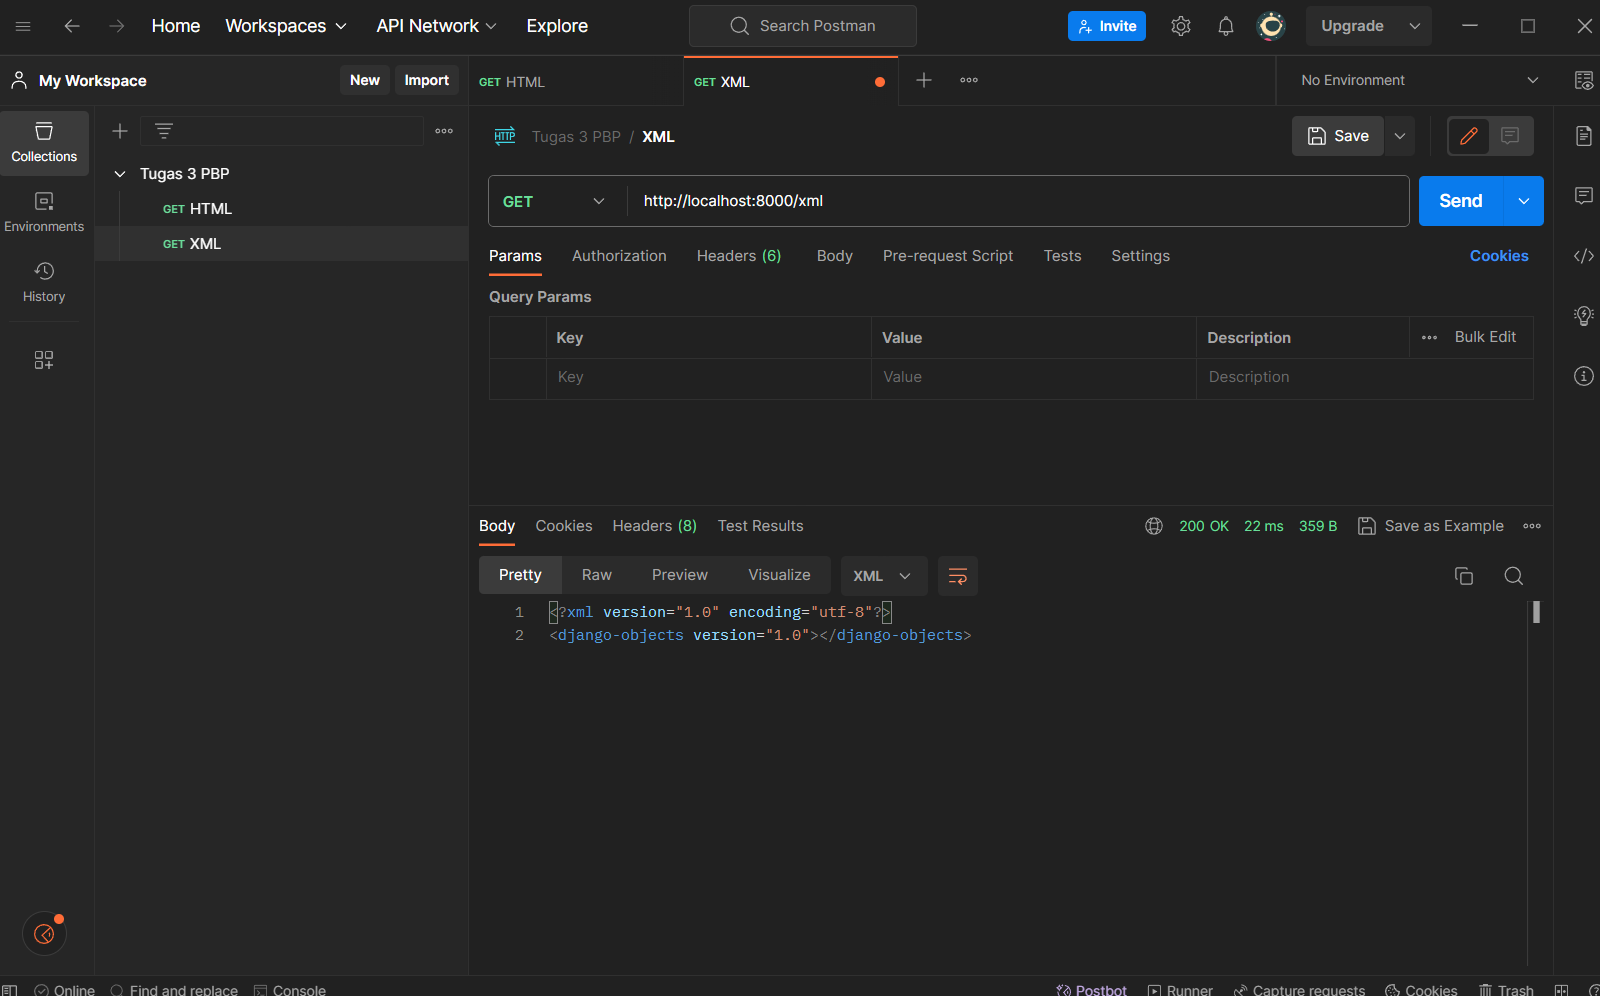
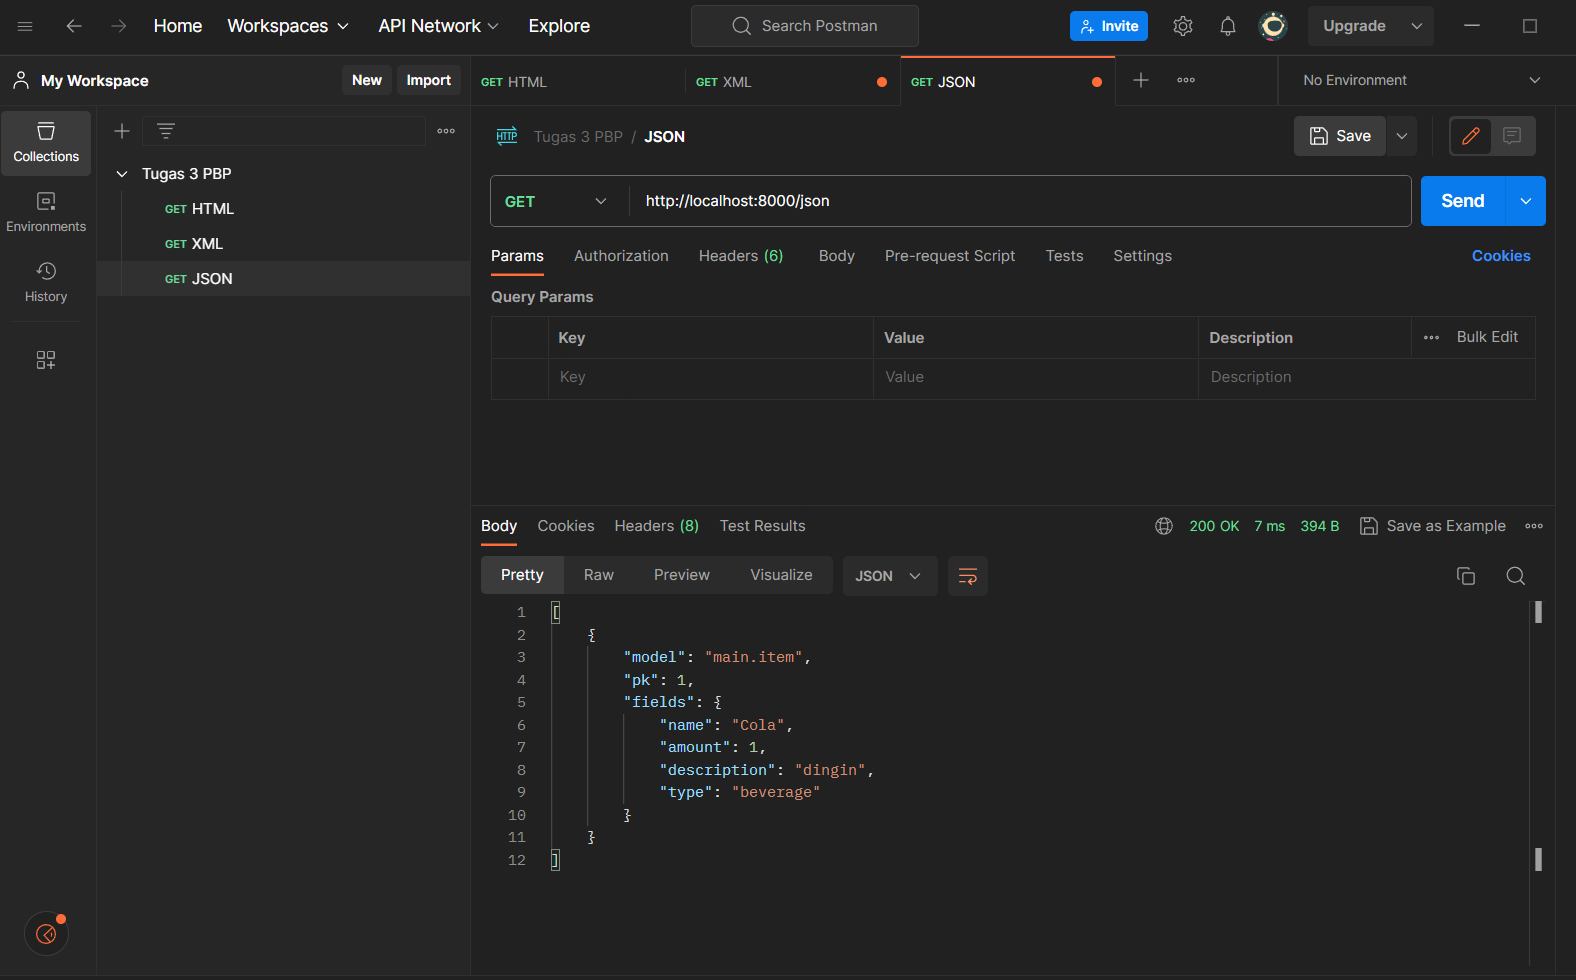
Update to Tugas 3

diff --git a/README.md b/README.md
@@ -585,11 +585,13 @@ def show_main(request):
 ![Alt text](image.png)
 
 * XML
-![Alt text](image-1.png)
-
-* JSON
 ![Alt text](image-2.png)
 
+* JSON
+![Alt text](image-1.png)
+
 * XML by ID
+![Alt text](image-3.png)
 
 * JSON by ID
+![Alt text](image-4.png)
